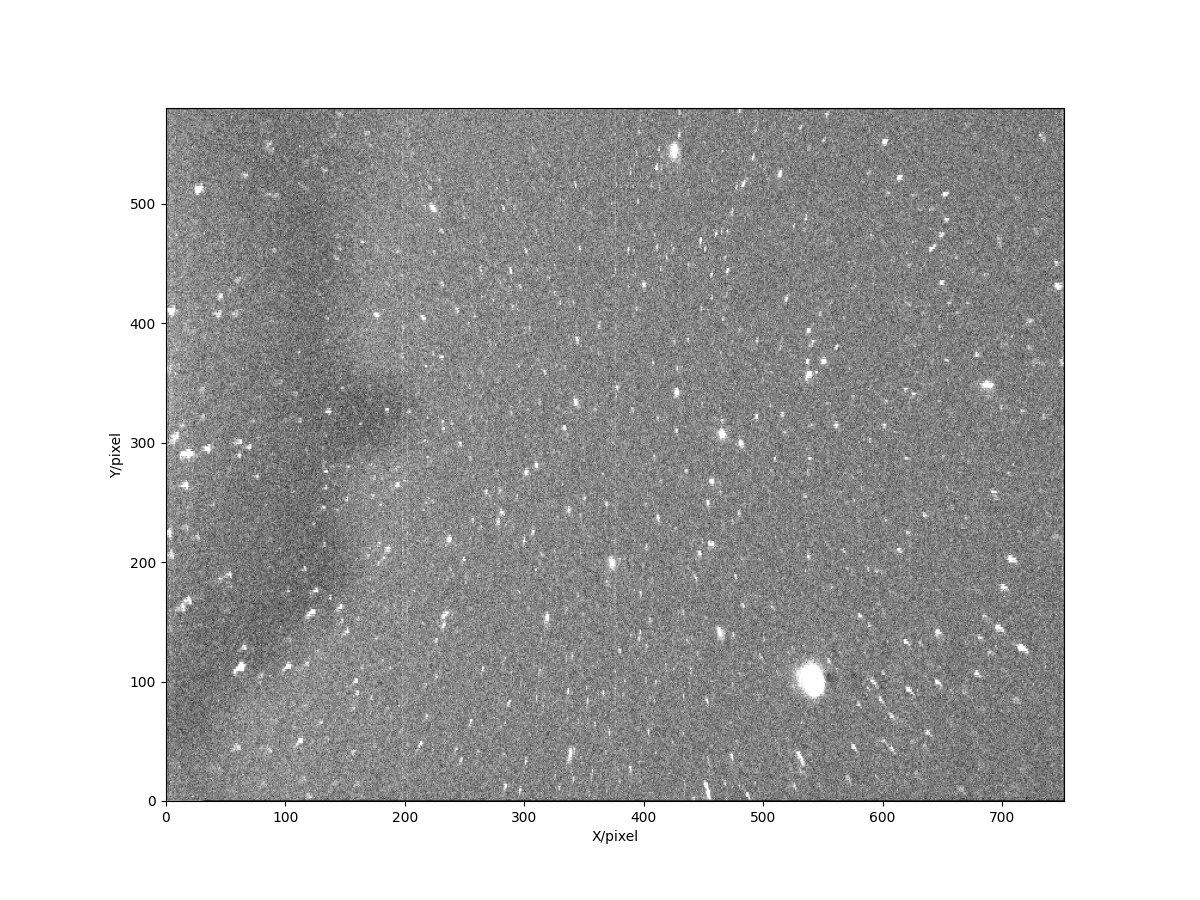
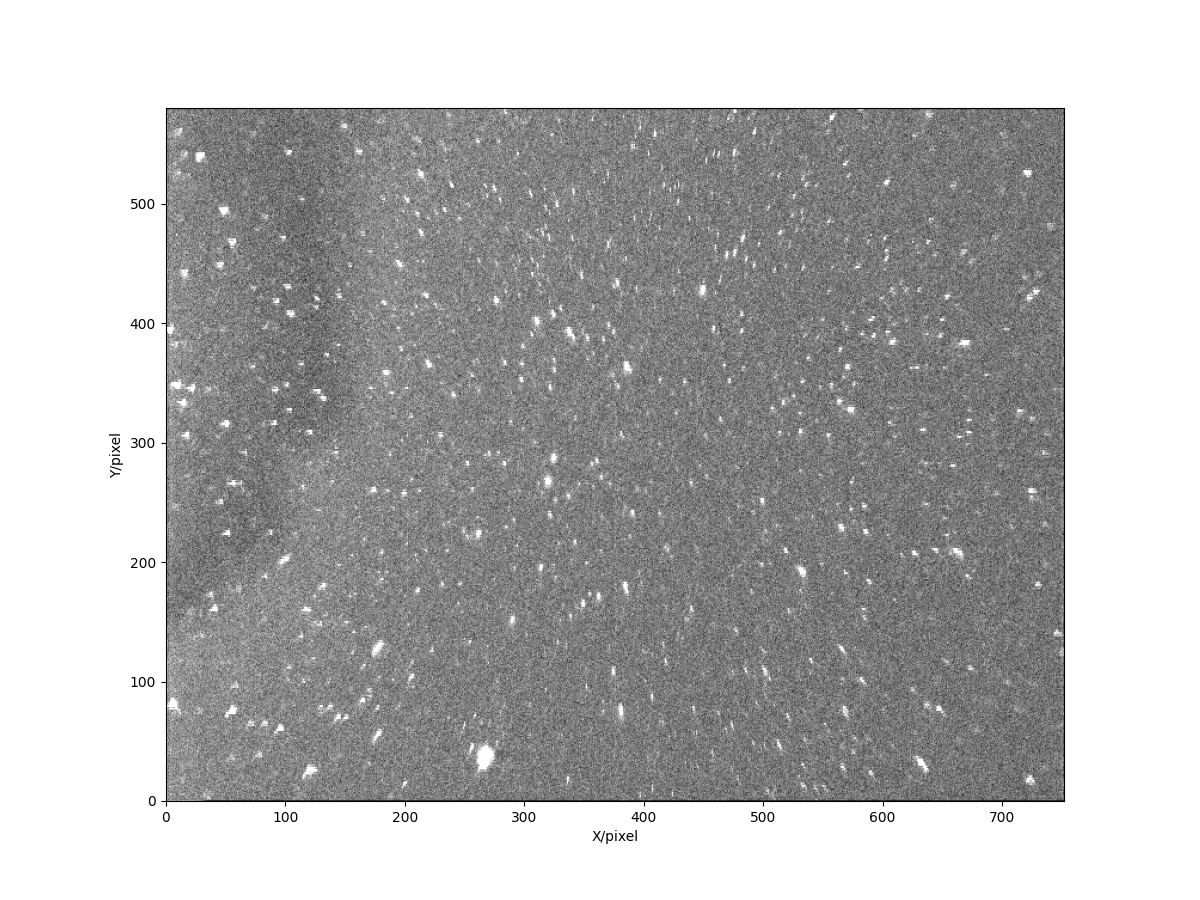
background = map testing

Changed region(s): [[0.1233, 0.1244, 0.8942, 0.9022]]

diff --git a/astride/test/run.py b/astride/test/run.py
@@ -17,7 +17,7 @@ def test():
    # file_path = join(module_path, '../datasets/samples', 'long.fits')
    # streak = Streak(file_path, output_path='./long/')
 
-    file_path = join(module_path, '../datasets/images', 'swarmstreak3.fits')
+    file_path = join(module_path, '../datasets/images', 'swarmstreak.fits')
     streak = Streak(file_path, output_path='./long/')
 
     # file_path = '/Users/kim/Temp/hst_13003_54_wfc3_ir_f110w_drz_saved.fits'

diff --git a/astride/detect.py b/astride/detect.py
@@ -116,7 +116,7 @@ class Streak:
         # Remove background.
         if self.remove_bkg == 'map':
             self._remove_background()
-        elif self.remove_bkg is 'constant':
+        elif self.remove_bkg == 'constant':
             _mean, self._med, self._std = \
                 sigma_clipped_stats(self.raw_image)
             self.image = self.raw_image - self._med
